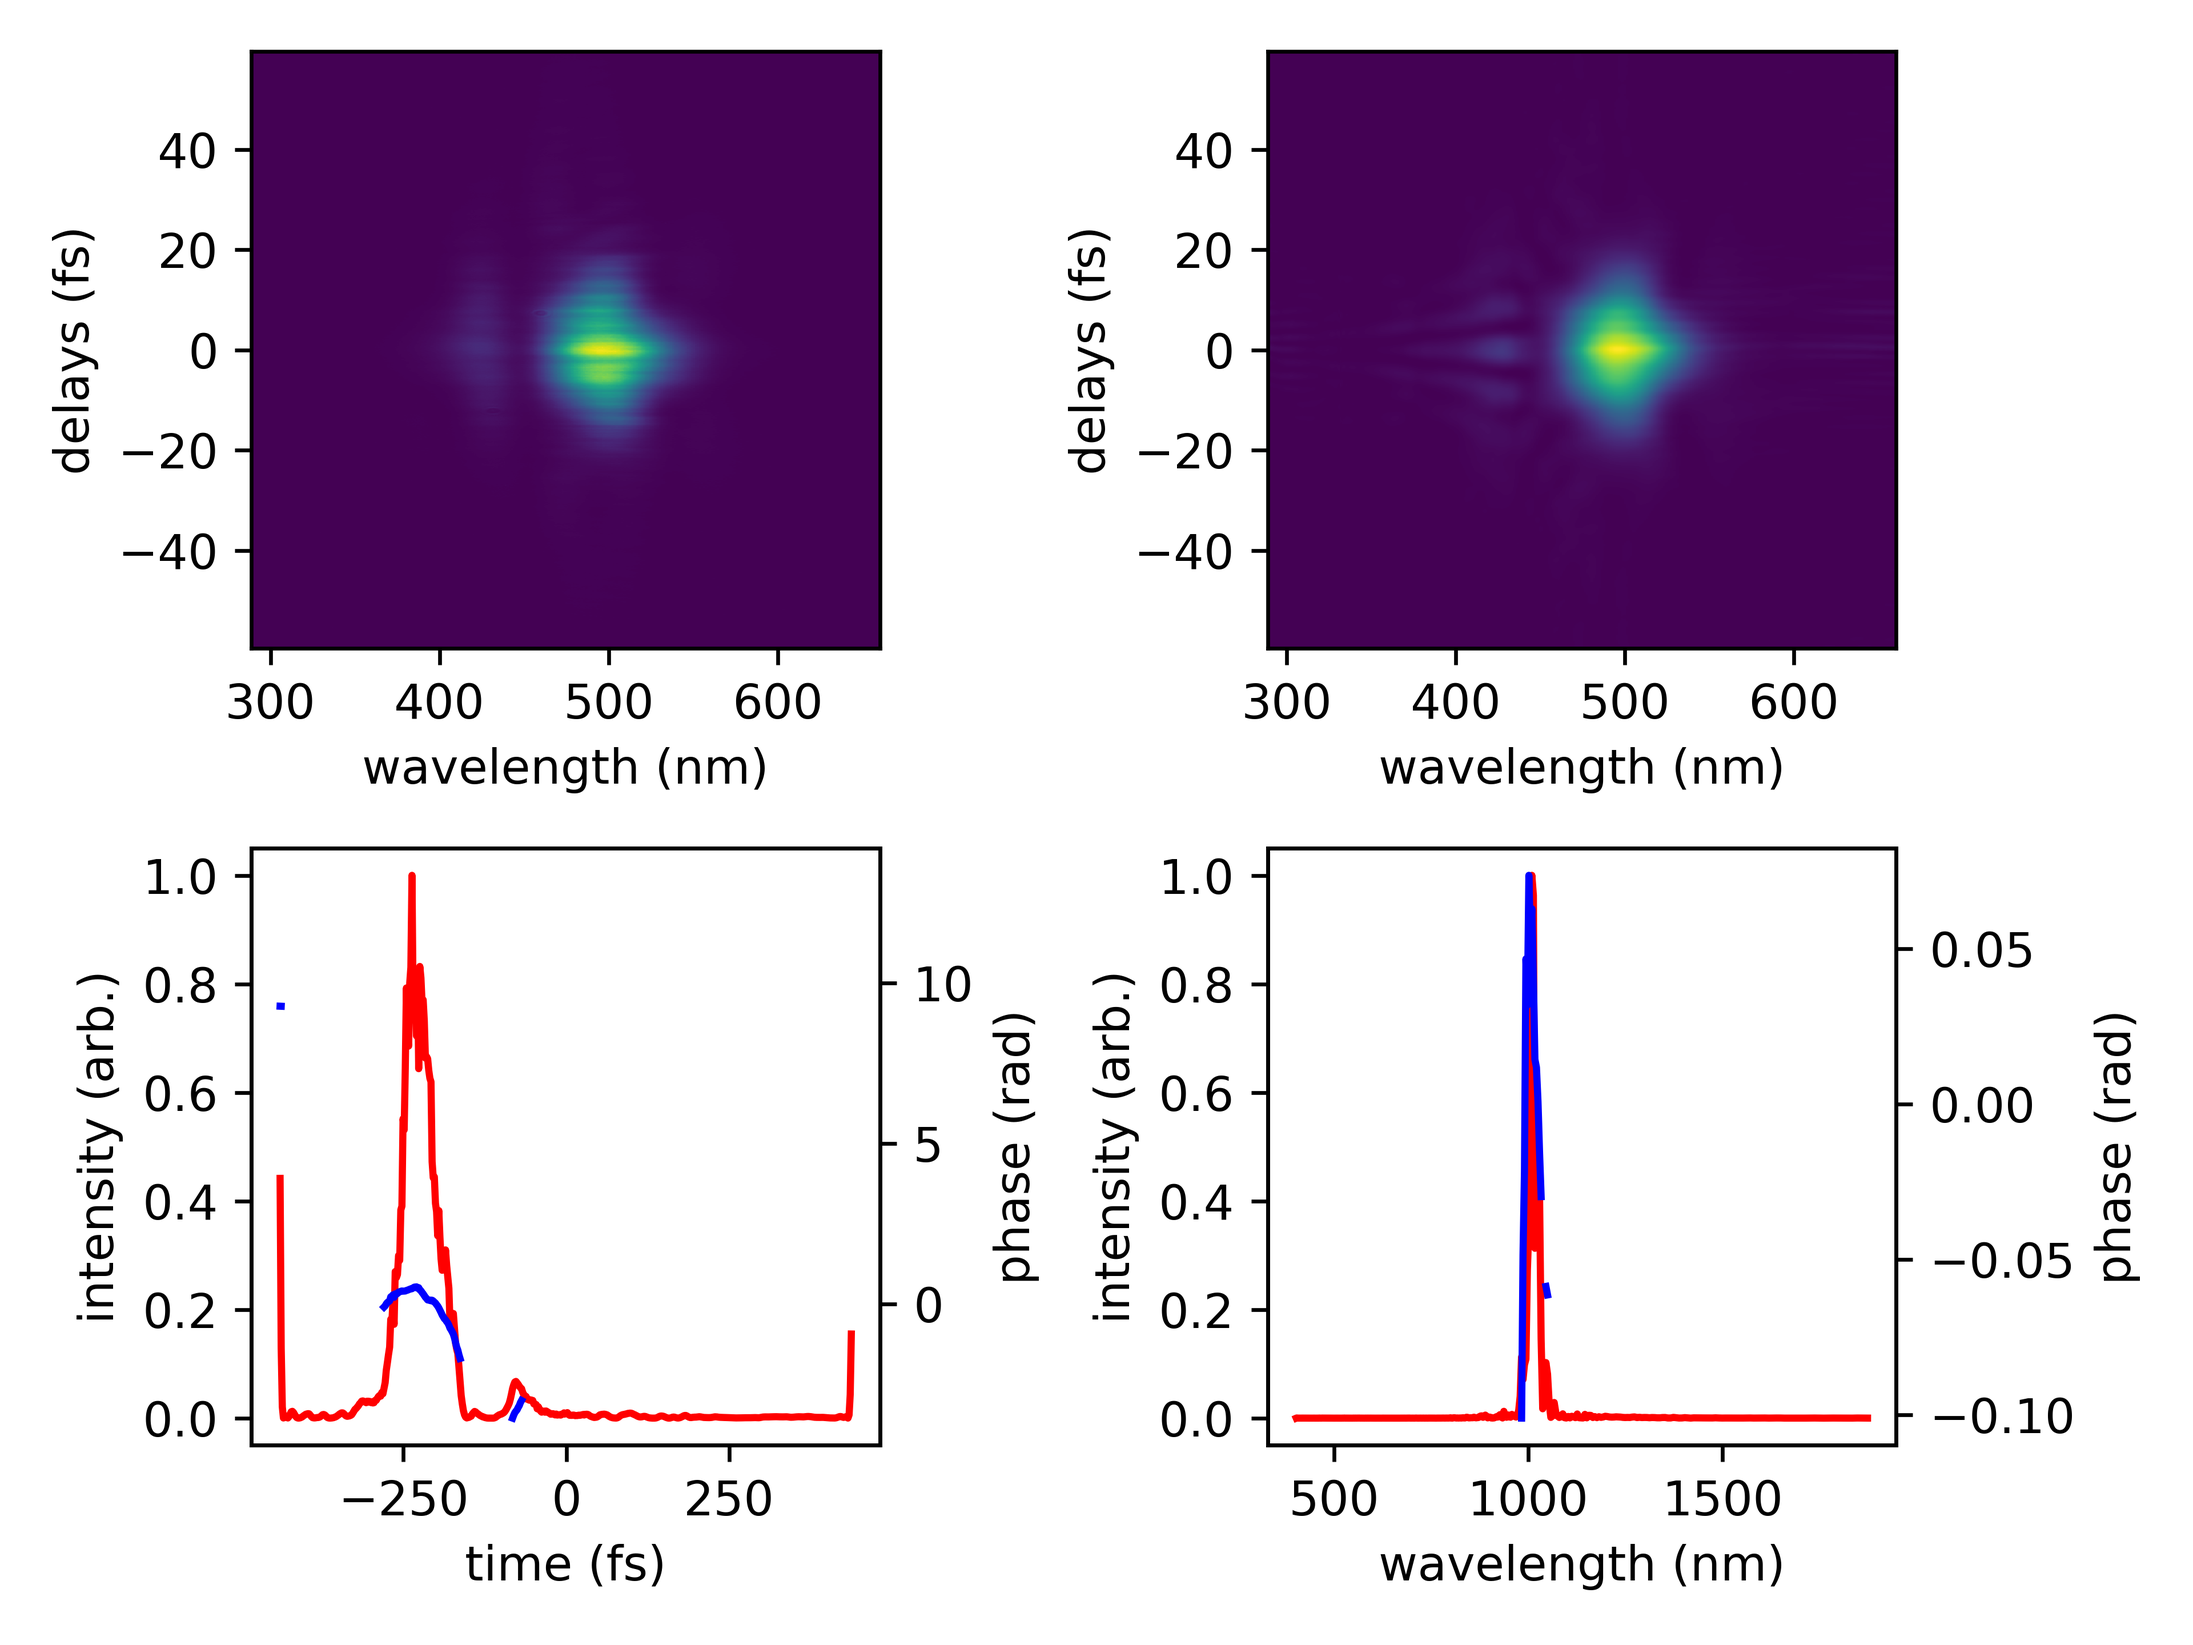
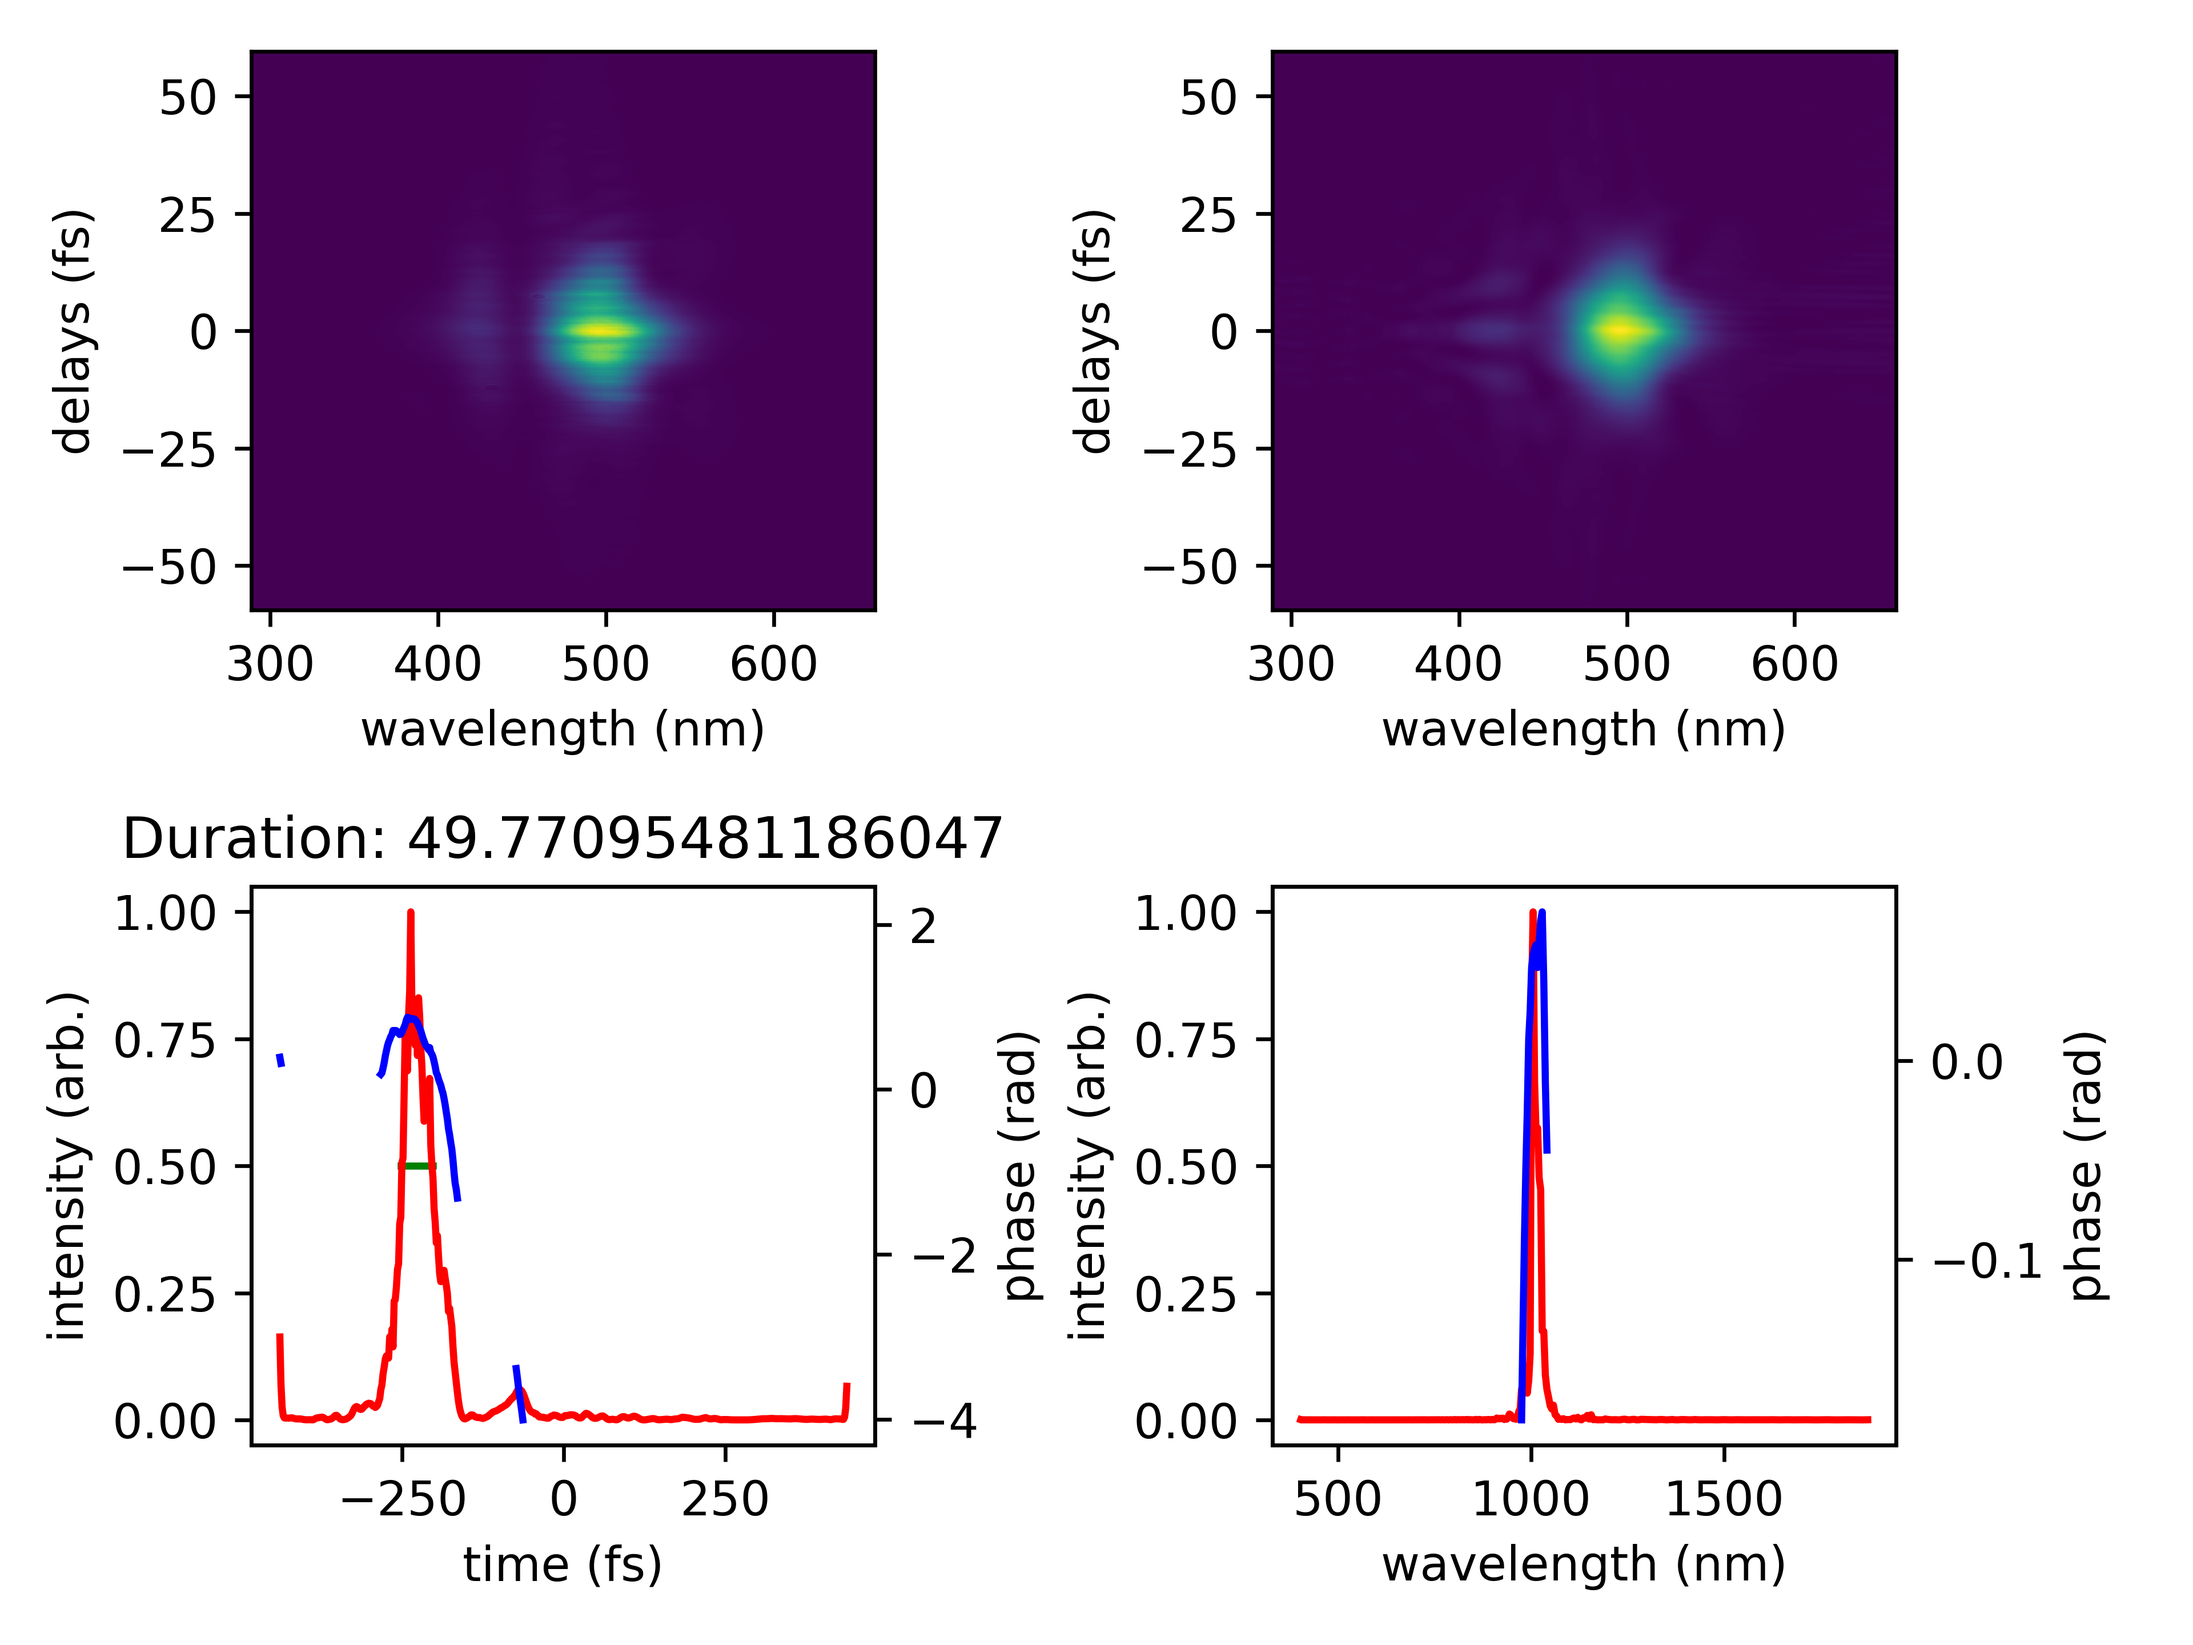
Added FROG of first stage spectral broadening

diff --git a/pypret_retrieval.py b/pypret_retrieval.py
@@ -88,7 +88,7 @@ pypret.MeshDataPlot(pnps.trace)
 ## Finally doing the actual retrieval
 
 # and do the retrieval
-ret = pypret.Retriever(pnps, "copra", verbose=True, maxiter=600)
+ret = pypret.Retriever(pnps, "copra", verbose=True, maxiter=300)
 
 # Retrieve from the measured data
 ret.retrieve(measured_data, pulse.spectrum)
@@ -112,9 +112,24 @@ axes[0,1].pcolormesh(signal_wavelengths, delays, result.trace_retrieved, shading
 axes[0,1].set_xlabel('wavelength (nm)')
 axes[0,1].set_ylabel('delays (fs)')
 
+def fwhm(intensity):
+    max_index = np.argmax(intensity)
+    for i in range(max_index,0,-1):
+        if intensity[i]<intensity[max_index]/2.:
+            low_index = i
+            break
+    for i in range(max_index,len(intensity)):
+        if intensity[i]<intensity[max_index]/2.:
+            high_index = i
+            break
+    return low_index, high_index
+
 field = result.pulse_retrieved
 field_intensity = np.abs(field)**2
 field_intensity /= np.max(field_intensity)
+low, high = fwhm(field_intensity)
+fwhm_time = pulse.t[high]-pulse.t[low]
+axes[1,0].plot([pulse.t[low]*1.e15,pulse.t[high]*1.e15], [0.5, 0.5], 'g-')
 axes[1,0].plot(pulse.t*1.e15, field_intensity,'r-')
 axes10phase = axes[1,0].twinx()
 masked_field_phases = np.ma.masked_where(field_intensity<5.e-2, np.unwrap(np.angle(field)))
@@ -123,7 +138,9 @@ axes10phase.plot(pulse.t*1.e15, masked_field_phases,'b-')
 axes[1,0].set_xlabel('time (fs)')
 axes[1,0].set_ylabel('intensity (arb.)')
 axes10phase.set_ylabel('phase (rad)')
+axes[1,0].set_title('Duration: 0:.4g'.format(fwhm_time*1.e15))
 
+# TODO: This doesn't convert from w to wavelength...
 spectrum = pulse.ft.forward(field)
 spectral_intensity = np.abs(spectrum)**2
 spectral_intensity /= np.max(spectral_intensity)
